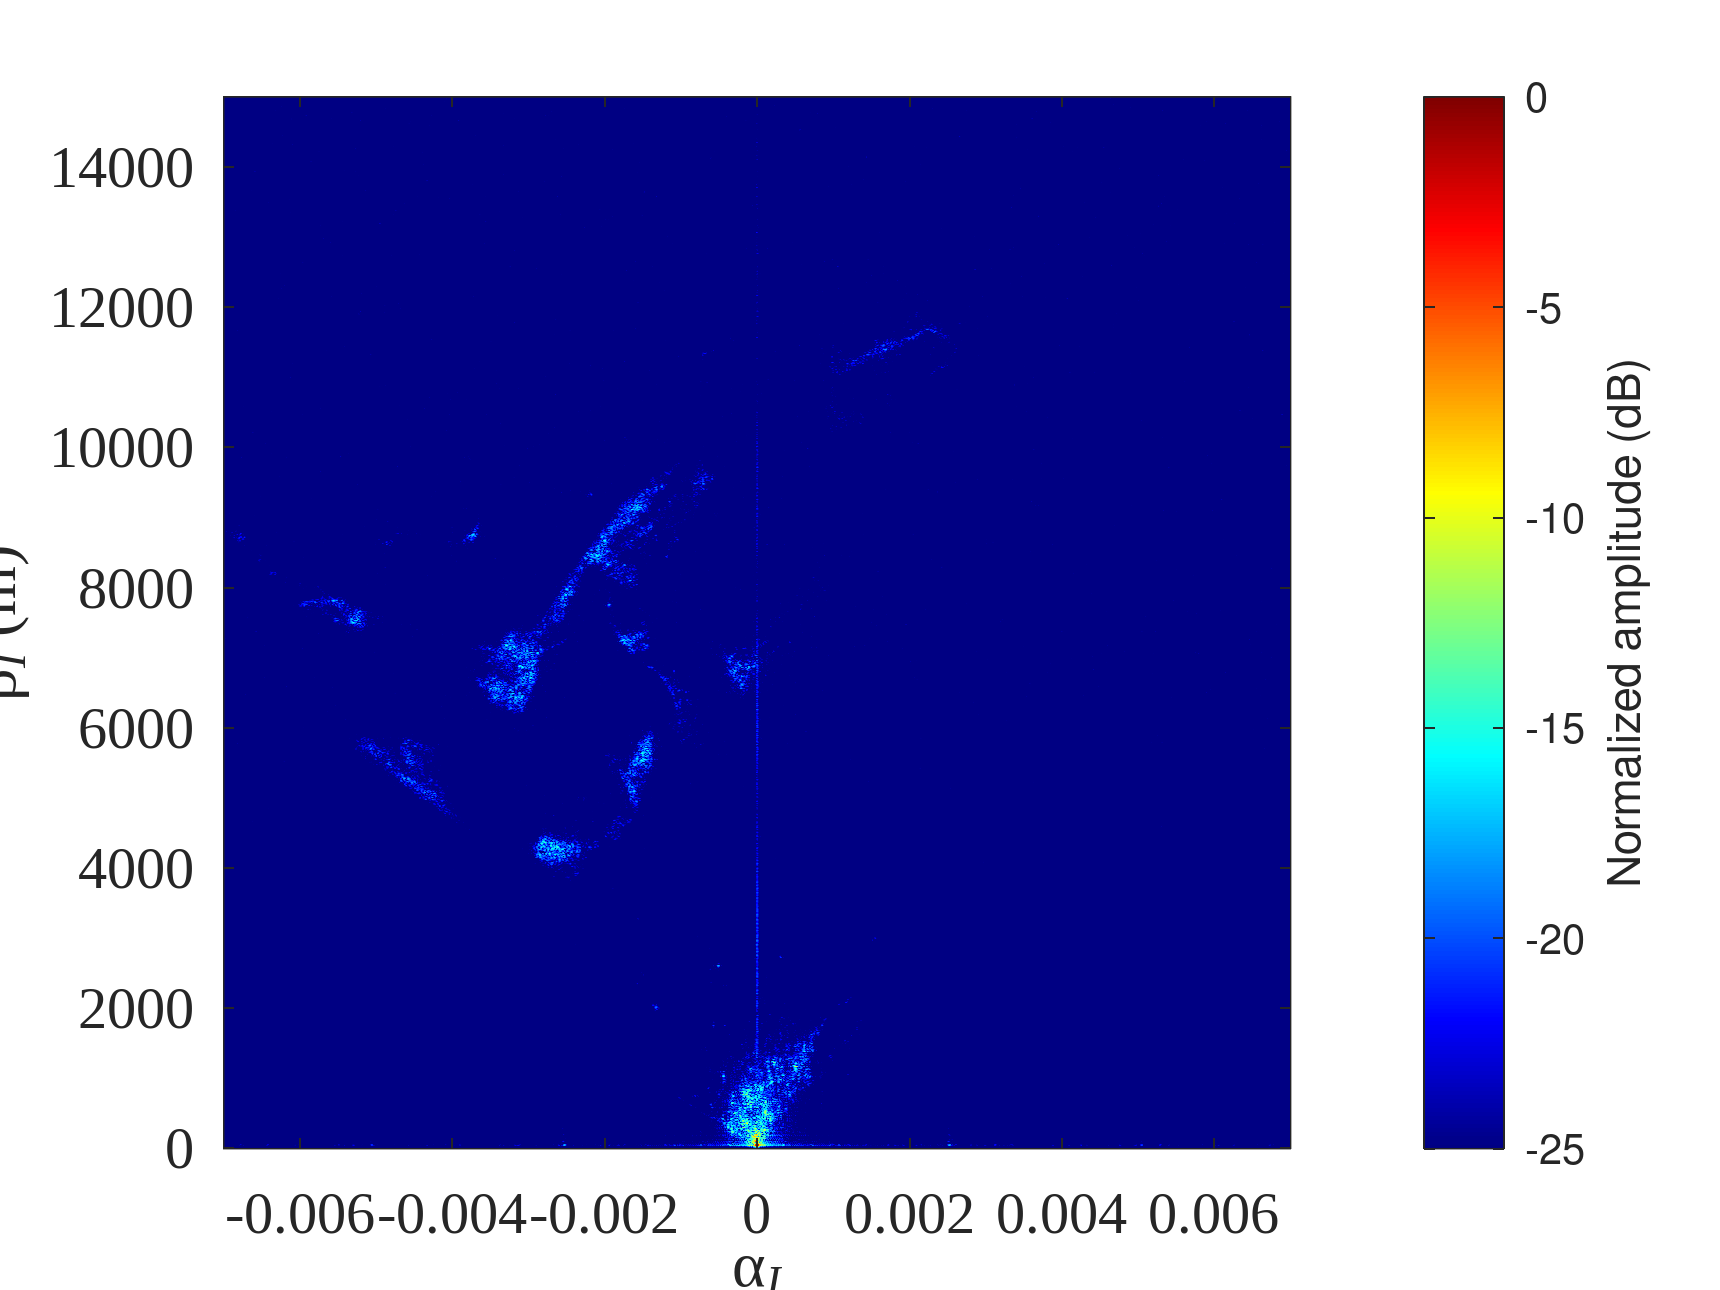
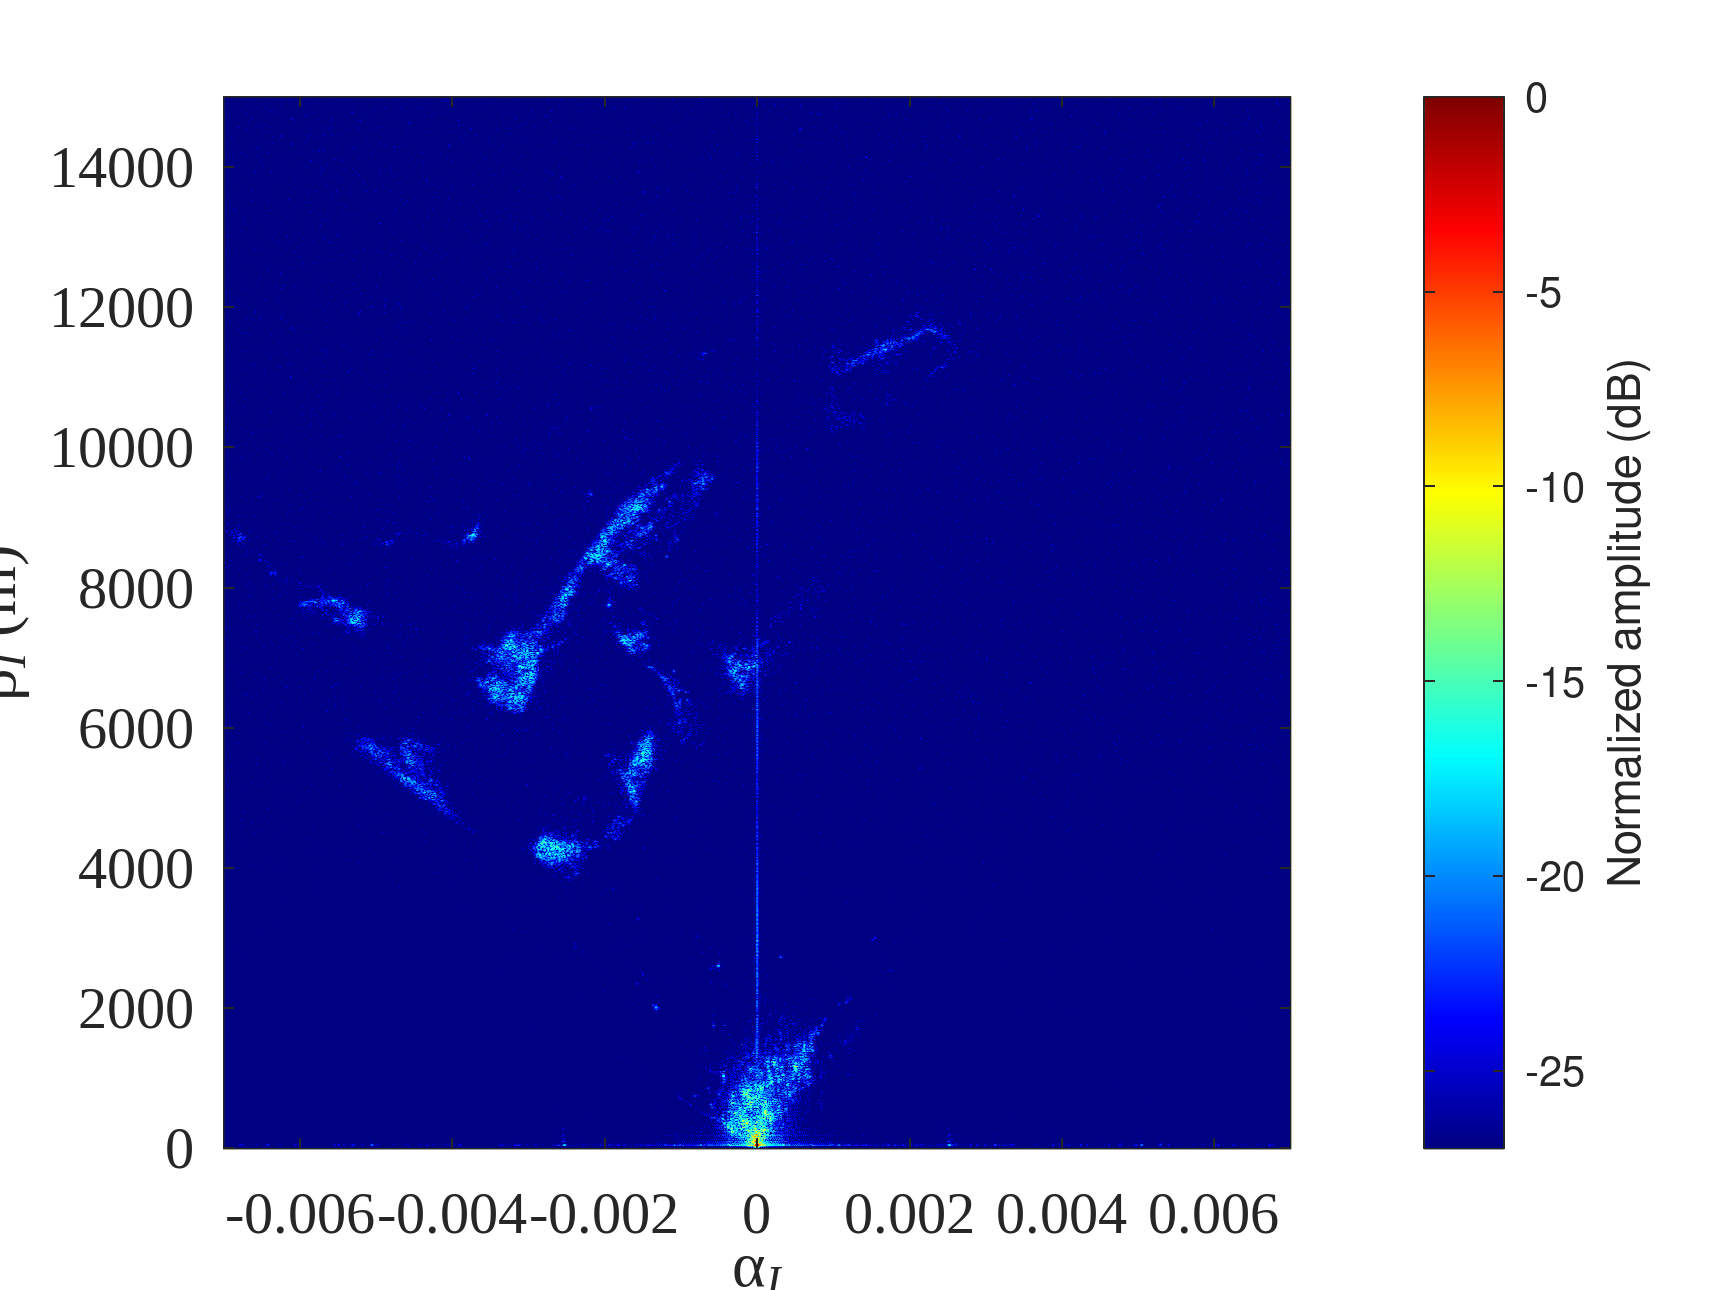
update colorscale B210

diff --git a/260817/b210/nisarb210_process5.m b/260817/b210/nisarb210_process5.m
@@ -105,13 +105,13 @@ F2 = exp(-1j*2*pi*al_sat*al_I/lembda)/sqrt(P);
 Image_I = F1'*S*conj(F2);
 Image_I_db = 10*log10(abs(Image_I)/max(abs(Image_I(:))));
 figure;imagesc(al_I,beta_I,Image_I_db);axis xy;
-colormap(jet);colorbar;clim([-25,0]);
+colormap(jet);colorbar;clim([-27,0]);
 xlabel('\alpha_{\itI}');ylabel('\beta_{\itI} (m)');
 ylabel(colorbar,'Normalized amplitude (dB)');
 set(gca,'FontName','Times New Roman','FontSize',14);
 
 %% Image on x-o-y plane
-xm = linspace(0,7.5e3,3801);nxm = length(xm);
+xm = linspace(0,8e3,3801);nxm = length(xm);
 ym = linspace(-5700,6700,3801);nym = length(ym);
 
 [X,Y] = meshgrid(xm,ym.');A = Y;
@@ -130,7 +130,7 @@ beta_grid = sqrt(A.^2+B.^2)+B-A.^2./(beta_sat-B)/2;
 Image_xy = interp2(al_I_grid,beta_I_grid,Image_I,al_grid,beta_grid,'linear',0);
 Image_xy_db = 10*log10(abs(Image_xy)/max(abs(Image_xy(:))));
 figure;imagesc(ym,xm,Image_xy_db.');axis xy;
-clim([-25,0]);colormap(jet);colorbar;
-xlabel('y (m)');ylabel('x (m)');
+clim([-27,0]);colormap(jet);colorbar;
+xlabel('x (m)');ylabel('y (m)');
 ylabel(colorbar,'Normalized amplitude (dB)');
 %set(gca,'FontName','Times New Roman','FontSize',14);
